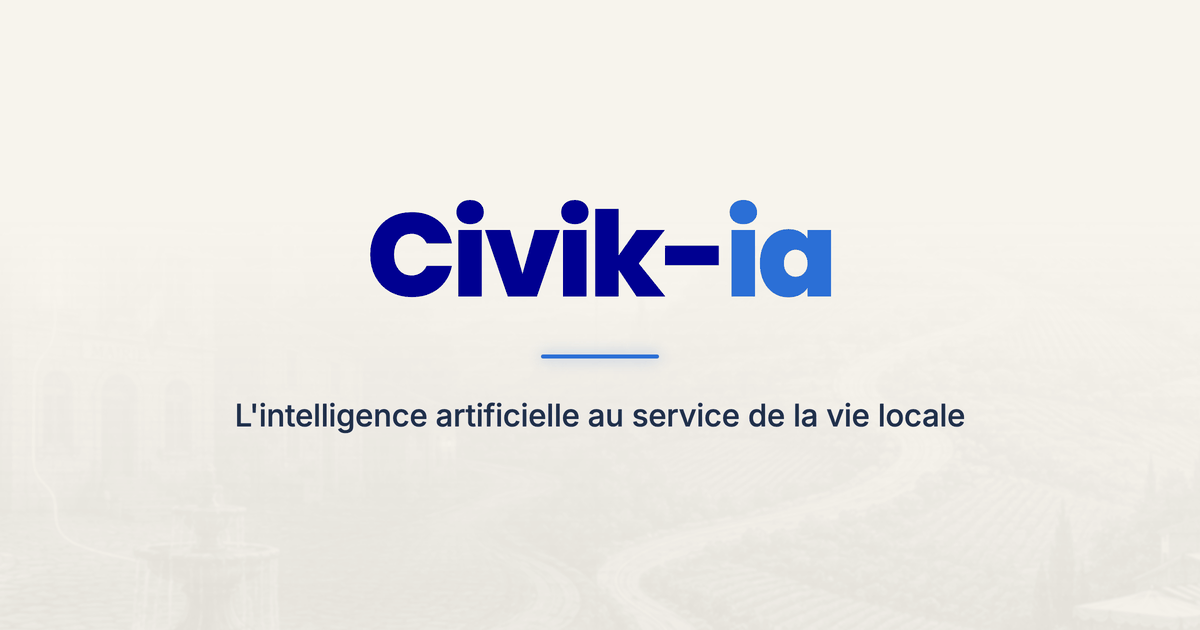
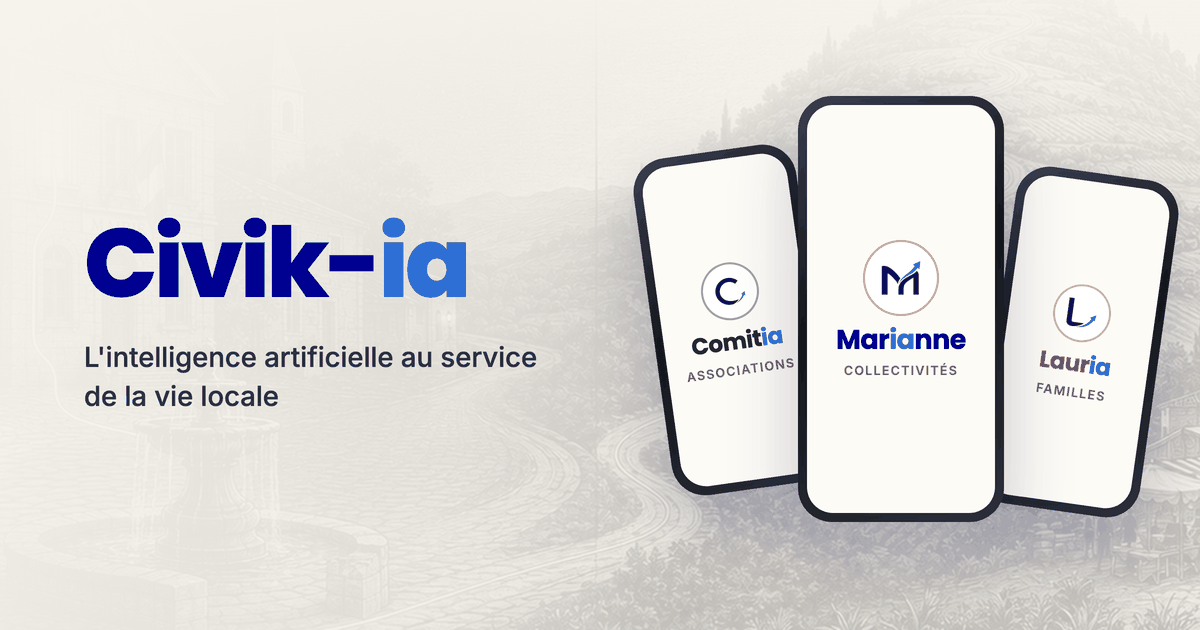
og-image v3 (brief Thibaut) : village grave en fond assume, wordmark Civik-ia + phrase claire a gauche, les 3 smartphones Marianne/Lauria/Comitia en eventail avec leurs publics (Collectivites/Familles/Associations), sans trait bleu ; SW v120

Changed region(s): [[0.0617, 0.1206, 1.0, 1.0], [0.74, 0.3619, 0.7708, 0.3921]]

diff --git a/service-worker.js b/service-worker.js
@@ -4,7 +4,7 @@
  * Version: 1.0.0
  */
 
-const CACHE_NAME = 'civik-ia-v119-og-epure-2026-07-05';
+const CACHE_NAME = 'civik-ia-v120-og-maison-2026-07-05';
 const STATIC_ASSETS = [
   '/',
   '/site-civik-ia.html',
